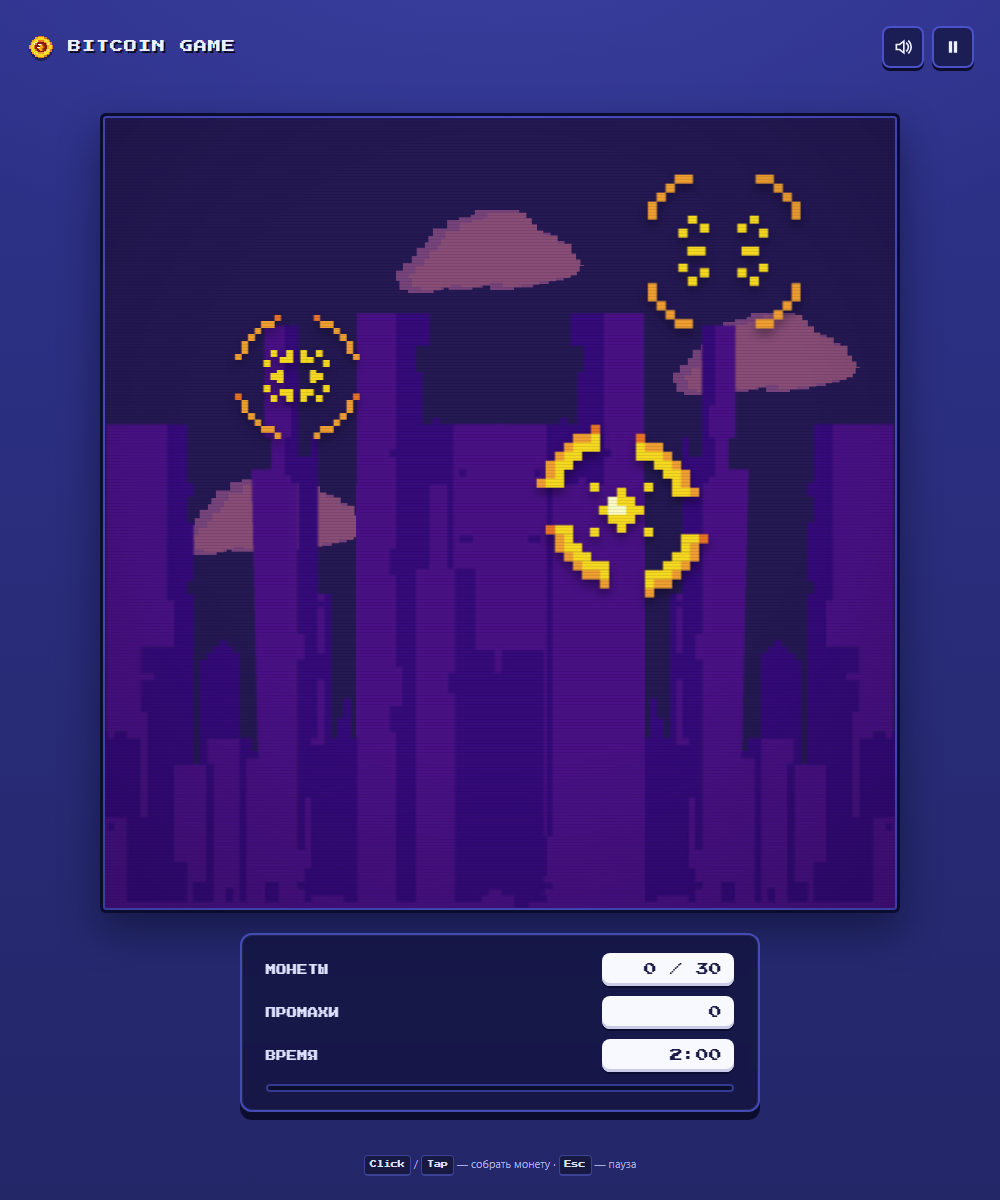
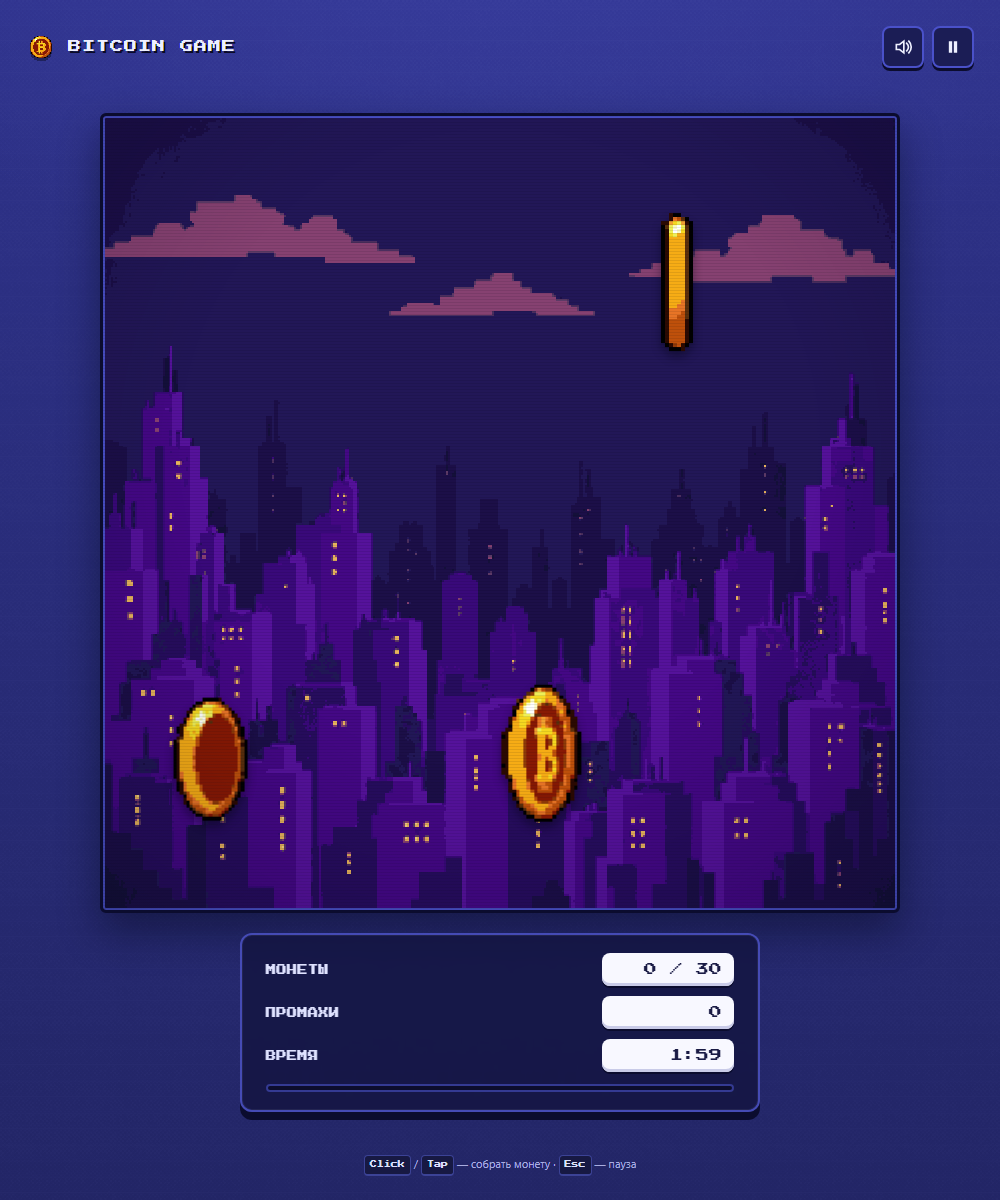
feat: new pixel-art field background and spinning bitcoin sprites
Фон поля и 17 кадров монеты сгенерированы по промтам и очищены до честной пиксельной сетки: фон 400x400 x2, кадры 50x50 x4, палитра сведена к 12 цветам. Лицо монеты попало в frame-08.png, поэтому шапка, фавикон и экран награды подхватили новый спрайт без правок кода.

Добавлены отдельные favicon-32.png и apple-touch-icon.png, текстура страницы подключена лёгким слоем soft-light. Скриншоты README пересняты на production-сборке, промты и пайплайн описаны в docs/image-prompts.md.

Changed region(s): [[0.093, 0.1233, 0.899, 0.7708], [0.682, 0.1233, 0.713, 0.1542], [0.031, 0.0308, 0.062, 0.0617]]

diff --git a/index.html b/index.html
@@ -10,7 +10,8 @@
       content="Bitcoin Game — аркада: собирай вращающиеся биткоины, не промахивайся и успей до конца таймера."
     />
     <title>Bitcoin Game — собери 30 монет</title>
-    <link rel="icon" type="image/png" href="./src/assets/coin/frame-08.png" />
+    <link rel="icon" type="image/png" sizes="32x32" href="./src/assets/favicon-32.png" />
+    <link rel="apple-touch-icon" sizes="180x180" href="./src/assets/apple-touch-icon.png" />
   </head>
   <body>
     <div class="app" id="app">

diff --git a/src/style.css b/src/style.css
@@ -41,8 +41,10 @@ body {
   color: var(--text);
   font-family: var(--font-body);
   background:
+    url('./assets/page-bg.png') 0 0 / 128px repeat,
     radial-gradient(1200px 700px at 50% -10%, #3a3fa0 0%, transparent 60%),
     linear-gradient(180deg, #2f338c 0%, #232667 100%);
+  background-blend-mode: soft-light, normal, normal;
   background-color: var(--navy);
   -webkit-font-smoothing: antialiased;
 }

diff --git a/docs/image-prompts.md b/docs/image-prompts.md
@@ -1,0 +1,298 @@
+# Промты для генерации картинок
+
+Готовые промты для нейрокартинок: **фон игрового поля** и **биткоин-монета**
+(лицо + кадры вращения). Всё написано так, чтобы результат встал на место
+текущих ассетов без переделки вёрстки.
+
+## Что заменяется
+
+| Ассет | Файл | Требования |
+| --- | --- | --- |
+| Фон поля | [`src/assets/game-field.png`](../src/assets/game-field.png) | 800×800, квадрат, `cover`, без текста и монет |
+| Кадры монеты | `src/assets/coin/frame-01.png` … `frame-17.png` | 200×200, PNG с альфой, монета по центру |
+| Иконка в шапке | тот же кадр лица (`frame-08.png`) | читается в 30 px |
+| Фавикон | `src/assets/favicon-32.png`, `apple-touch-icon.png` | 32×32 и 180×180 из кадра лица |
+| Текстура страницы | `src/assets/page-bg.png` | 128×128, бесшовный тайл |
+
+Движок просто меняет 17 PNG каждые 50 мс, поэтому подойдёт любой цикл из 17
+кадров — но монета в каждом кадре должна быть в одном и том же центре.
+
+## Палитра проекта (снята с текущих ассетов)
+
+Фон поля: `#251953` небо · `#350A7A` дальние дома · `#491185` ближние дома ·
+`#884D76` облака · `#0B0C2E` обводка рамки.
+
+Монета: `#FFFFFF`/`#FAFAC5` блик · `#EFEF57` светлый жёлтый · `#F5D820` золото ·
+`#F6AC15`/`#EF9F31` янтарь · `#E77426`/`#BE500B` оранжевый обод ·
+`#871904` тёмно-красный центр · `#2B0A02` обводка.
+
+## STYLE LOCK — добавлять в конец любого промта
+
+Версия для Stable Diffusion / Midjourney / Flux (негативные формулировки там норма):
+
+```text
+Retro 16-bit pixel art in the style of a 1998 PC shareware arcade game. Hand-placed
+pixels on a strict square grid, native low resolution, 1-pixel hard edges, no
+anti-aliasing, no blur, no smooth gradients, flat solid colors only, limited palette,
+crisp silhouette that reads at small size, pixel-perfect, centered, no text,
+no watermark, no signature.
+```
+
+Версия для GPT / DALL·E / Ideogram — только позитивные формулировки, короче и без
+упоминания воды и подписей (см. раздел 9):
+
+```text
+Pixel art illustration in the aesthetic of classic 1990s video games. Low-resolution
+look: a coarse, uniform pixel grid, crisp blocky edges, flat solid colors, a small
+limited palette, simple readable shapes, clean silhouette, even lighting, plain
+uncluttered composition, original artwork.
+```
+
+## 1. Фон игрового поля
+
+Для GPT / DALL·E берите собранный вариант из раздела 9 — здесь негативный блок,
+который для GPT лучше не отправлять.
+
+```text
+Pixel-art background for the playfield of a 1998 arcade game, square 1:1.
+
+Flat side-on view of a night metropolis. The lower two thirds are a dense skyline of
+blocky purple skyscrapers of different heights: simple stacked rectangles, stepped
+rooftops, thin antennas, a few tiny 1-pixel lit windows. The upper third is almost
+empty flat deep-indigo sky (#251953) with three wide low clouds in dusty mauve
+(#884D76) drawn with chunky pixel steps.
+
+Three depth layers: far towers in dark indigo (#1E1445), middle towers in violet
+(#350A7A), nearest towers in purple (#491185) with a few slightly lighter faces
+(#6B2A8C) for two-tone shading. No gradients, no glow, no fog, no reflections.
+
+Deliberately low contrast and a calm, uncluttered center — bright golden coins must
+read clearly on top of it. Subtle darker vignette in the corners.
+
+NEGATIVE: text, letters, numbers, watermark, logo, bitcoin symbol, coin, money,
+character, person, animal, photo, 3D render, smooth gradient, glow, bloom, blur,
+anti-aliasing, noise, film grain, dust, anime, highly detailed shading, lens flare,
+busy center, extra objects.
+```
+
+Почему так: в CSS поверх поля лежат сканлайны и виньетка (`.board::after`), так что
+фон должен быть чуть светлее и спокойнее, чем хочется, иначе центр «съест» монеты.
+
+## 2. Фон страницы (опционально)
+
+Сейчас это просто тёмный градиент. Если хочется текстуру — бесшовный тайл:
+
+```text
+Seamless pixel-art background texture for a web page, flat deep indigo (#17153F) with
+a very subtle 2x2 checker dither of one slightly lighter shade (#251953) and a few
+faint 1-pixel horizontal scanlines. No objects, no shapes, no text, extremely low
+contrast, tileable 256x256.
+```
+
+## 3. Монета — кадр лица (основной)
+
+Для GPT / DALL·E — вариант из раздела 9.
+
+```text
+Pixel-art game sprite of a golden bitcoin coin seen straight on, perfectly round,
+centered on a transparent square canvas. Chunky square pixels.
+
+From outside in: 1-pixel near-black outline (#2B0A02); bright gold outer ring
+(#F5D820) with amber shading (#EF9F31) and a darker orange lower-right rim
+(#E77426, #BE500B); inner disc in dark red-brown (#871904); in the middle a bold
+pixel bitcoin sign — a capital letter B with two vertical bars crossing it top and
+bottom — in bright gold (#F5D820) with pale-yellow highlight pixels (#EFEF57) and a
+small white specular cluster at the upper left (#FAFAC5, #FFFFFF).
+
+Flat colors, 8-color palette, hard pixel edges, no gradient, no anti-aliasing, no
+noise, no drop shadow, no glow, no background. Coin diameter about 75% of the canvas,
+centered.
+
+NEGATIVE: realistic, 3D render, smooth shading, gradient, blur, anti-aliasing,
+glow, drop shadow, text other than the bitcoin symbol, letters, watermark,
+background, multiple coins, perspective tilt.
+```
+
+Важно: в текущих кадрах в центре читается надпись **«BMT»** — это остаток правок
+старого спрайта, чистого `₿` там нет. Поэтому символ надо просить явно; лучше всего
+с ним справляются Ideogram и GPT-image.
+
+## 4. Монета — лист кадров вращения
+
+```text
+One horizontal sprite sheet: 17 equal square cells in a single row, transparent
+background, no numbers, no labels. The same pixel-art golden bitcoin coin spinning
+around its vertical axis, light from the upper left in every frame.
+
+Cell 1: coin almost edge-on, very narrow, only the gold rim visible.
+Cells 2-4: coin opening up into a narrow ellipse, the bitcoin symbol compressed
+horizontally.
+Cells 5-8: coin turning to face the viewer, the symbol becoming readable.
+Cell 9: full face-on coin.
+Cells 10-13: coin turning away again, back to a narrow ellipse and then edge-on.
+Cells 14-17: the back face opening and closing, so the last cell matches the first
+and the loop is seamless.
+
+Every cell: the same coin, the same palette, the same center and bounding box; only
+the horizontal width changes from perspective foreshortening, vertical size stays
+constant. Hard pixel edges, 1-pixel dark outline, flat 8-color gold/orange/brown
+palette, no anti-aliasing, no motion blur, no glow.
+
+NEGATIVE: text, numbers, labels, grid lines, watermark, several different coins,
+scale changes between cells, gradient, blur, anti-aliasing, glow, reflections,
+background.
+```
+
+Честное предупреждение: 17 идеальных кадров одной генерацией почти никто не отдаёт —
+модель собьётся на 3–4 кадре. Рабочие варианты по возрастанию надёжности:
+
+1. Просить 4 кадра (лицо, 3/4, ребро, 3/4 назад) и получить остальные повтором/зеркалом.
+2. Генерить 8 кадров на листе 4×2, резать и доигрывать цикл в коде.
+3. **Самый надёжный:** сделать одну монету лицом и один «ребро», а промежуточные
+   кадры получить масштабом по X в скрипте (монета — это почти плоский диск,
+   разница только в ширине). Тогда генерация нужна ровно на 2 картинки.
+
+## 5. Иконка / логотип
+
+```text
+Pixel-art app icon, single golden bitcoin coin on a transparent background, front
+view, thick 1-pixel dark outline, flat 8-color palette, bold readable bitcoin symbol,
+no text, no background, centered, square.
+```
+
+Просить 32×32 бессмысленно — генерить в 512 и уменьшать целыми делителями
+(512 → 32 = ÷16, nearest-neighbor), иначе пиксели «поплывут».
+
+## 6. Настройки генераторов
+
+| Инструмент | Что писать | Замечания |
+| --- | --- | --- |
+| Midjourney | `--ar 1:1 --style raw --s 25 --v 7`, для тайла `--tile` | Прозрачности нет: генерить на `#00FF00`, потом вырезать |
+| Stable Diffusion / Flux | 1024×1024, DPM++ 2M, steps 30, CFG 6–7, LoRA `pixel-art-xl` | Негатив из промтов работает как есть |
+| Ideogram | стиль **Pixel art**, 1:1, тумблер **Transparent background** | Лучший `₿` и вообще символы |
+| GPT-image / ChatGPT | «transparent background PNG, 1024×1024» | Хорошо держит символ и композицию |
+| Recraft | стиль **Pixel art**, transparent, точный размер | Отдаёт чистые пиксели без постобработки |
+
+## 7. Постобработка: превратить генерацию в честный пиксель-арт
+
+Нейрокартинка почти всегда приходит сглаженной. Приводим её к сетке: рисуем на
+логическом разрешении 160×160 (фон) или 40×40 (монета) и увеличиваем ×5 без
+интерполяции — тогда фон ляжет ровно в 800×800, а монета в 200×200.
+
+Для нынешних ассетов сетка оказалась мельче: фон 400×400 ×2 и монета 50×50 ×4 —
+см. раздел 10.
+
+```python
+from PIL import Image
+
+def pixelize(src, out, grid, scale=5, colors=12):
+    im = Image.open(src).convert('RGBA')
+    small = im.resize((grid, grid), Image.BOX)          # честное усреднение
+    alpha = small.getchannel('A').point(lambda a: 255 if a > 128 else 0)  # жёсткая альфа
+    rgb = small.convert('RGB').quantize(colors=colors).convert('RGB')
+    res = rgb.convert('RGBA')
+    res.putalpha(alpha)
+    res.resize((grid * scale, grid * scale), Image.NEAREST).save(out)
+
+pixelize('bg.png',    'game-field.png', 160)   # → 800×800
+pixelize('coin.png',  'frame-08.png',    40)   # → 200×200
+```
+
+Дальше — по вкусу: подтянуть цвета к палитре из раздела выше (это склеивает фон и
+монеты в один стиль), убрать белый ореол по краю альфы, сохранить PNG-8.
+
+## 8. Чеклист приёмки
+
+- [ ] Фон 1:1, центр спокойный, монеты читаются, нет текста/логотипов/монет.
+- [ ] Монета по центру, прозрачный фон, без белого ореола, диаметр ~75% холста.
+- [ ] `₿` читается в 200 px и не превращается в кашу в 128 px (минимальный размер в игре).
+- [ ] 17 кадров одного размера и одного центра, цикл замыкается (17 → 1 без рывка).
+- [ ] Палитра совпадает с UI: золото монеты не спорит с `--gold` в `style.css`.
+
+## 9. Если GPT отказывает
+
+Скорее всего сработал не смысл, а формулировки. Что именно триггерит:
+
+1. **«no watermark, no signature»** — читается как просьба убрать водяные знаки,
+   а это прямой запрет у всех image-моделей OpenAI. Убрать обязательно.
+2. **Длинный список «no …»** — модель воспринимает такой блок как негативную
+   инструкцию и может отказаться целиком. В GPT всё, что нельзя, лучше не
+   перечислять, а описывать только то, что должно быть.
+3. **«1998 PC shareware arcade game»** — конкретная эпоха и платформа намекают на
+   существующий продукт; достаточно «classic 1990s video games».
+
+Собранные промты для GPT (только позитивные формулировки):
+
+**Фон:**
+
+```text
+Create a square pixel art illustration of a night city skyline for a retro game background.
+
+Style: pixel art in the aesthetic of classic 1990s video games — a coarse uniform
+pixel grid, hard blocky edges, flat solid colors, a small limited palette, simple
+readable shapes, even lighting.
+
+Scene: the lower two thirds are a dense skyline of purple skyscrapers of different
+heights — simple stacked rectangles with stepped rooftops and thin antennas, a few
+tiny lit windows. The upper third is a nearly empty flat deep-indigo sky (#251953)
+with three wide low clouds in dusty mauve (#884D76) made of chunky pixel steps.
+Three depth layers: far towers dark indigo (#1E1445), middle towers violet
+(#350A7A), nearest towers purple (#491185) with slightly lighter faces (#6B2A8C).
+Low contrast overall, a calm empty center, slightly darker corners.
+
+Format: square 1:1, 1024x1024. The picture shows only the city scene.
+```
+
+**Монета:**
+
+```text
+Create a pixel art game sprite of a single golden bitcoin coin, front view, perfectly
+round and centered.
+
+Style: pixel art in the aesthetic of classic 1990s video games — a coarse uniform
+pixel grid, hard blocky edges, flat solid colors, an eight-color gold palette, even
+lighting.
+
+Design, from outside in: a thin near-black outline (#2B0A02); a bright gold outer
+ring (#F5D820) with amber shading (#EF9F31) and a darker orange lower-right rim
+(#E77426, #BE500B); an inner disc in dark red-brown (#871904); in the center a bold
+pixel bitcoin sign — a capital letter B crossed by two short vertical bars — in bright
+gold (#F5D820), with pale-yellow highlights (#EFEF57) and a small white glint at the
+upper left.
+
+Format: transparent background PNG, 1024x1024, coin diameter about 75% of the canvas,
+the coin is the only object in the frame.
+```
+
+Если и это не проходит — режем дальше: убрать «1990s video games» и написать
+нейтрально: *«illustration made of square color blocks, low resolution, flat
+colors»*. Ещё вариант: сначала попросить обычный гладкий арт, а пикселизацию сделать
+самому скриптом из раздела 7 — результат будет чище, чем у модели.
+
+## 10. Что в итоге легло в игру
+
+Обе картинки сгенерированы по промтам выше и прошли обработку в `incoming/`
+(скрипты `process.py`, `process_bg.py`, `finalize.py`):
+
+| Ассет | Из чего | Обработка |
+| --- | --- | --- |
+| `src/assets/game-field.png` | фон-мегаполис | 400×400 ×2 = 800×800, палитра из 10 цветов, окна приглушены до `#4A2E5E`/`#5C3A66`, чтобы не спорить с золотом монет |
+| `src/assets/coin/frame-01…17.png` | лист из 17 кадров | 50×50 ×4 = 200×200, палитра из 12 цветов, сжатие по Y ×0.78 (в генерации монета вышла вытянутой), цикл сдвинут так, чтобы кадр лица попал в `frame-08.png` |
+| `src/assets/page-bg.png` | текстура страницы | 128×128 тайл, сведённый к нейтральному серому: лежит слоем `soft-light` поверх градиента, поэтому добавляет дизеринг, но не меняет цвет страницы |
+| `src/assets/favicon-32.png`, `apple-touch-icon.png` | кадр лица | уменьшены из `frame-08.png`, палитра монеты, жёсткая альфа |
+| `docs/screenshots/*.png` | — | пересняты headless Chrome на production-сборке |
+
+Что стоит знать:
+
+- кадры обратной стороны у генерации без `₿` (просто выпуклая красная сторона) —
+  при 20 fps это читается как настоящее вращение, но в статичном скриншоте монета
+  иногда «безликая», поэтому для README выбран кадр, где символ виден;
+- текстура страницы подключается как первый слой `background` в `style.css`:
+  `url('./assets/page-bg.png') 0 0 / 128px repeat` с `background-blend-mode:
+  soft-light`. Если захочется совсем чистый градиент — достаточно убрать эти две
+  строки, ассет останется неиспользованным;
+- второй вариант монеты (`coin-face-b.png`, тёмный `₿` на золоте) в игру не пошёл:
+  он плоский, и в анимации пропало бы объёмное ребро, которое даёт лист кадров;
+- исходные PNG генерации и бэкап старых спрайтов — в `incoming/` (папка в
+  `.gitignore`).
+
